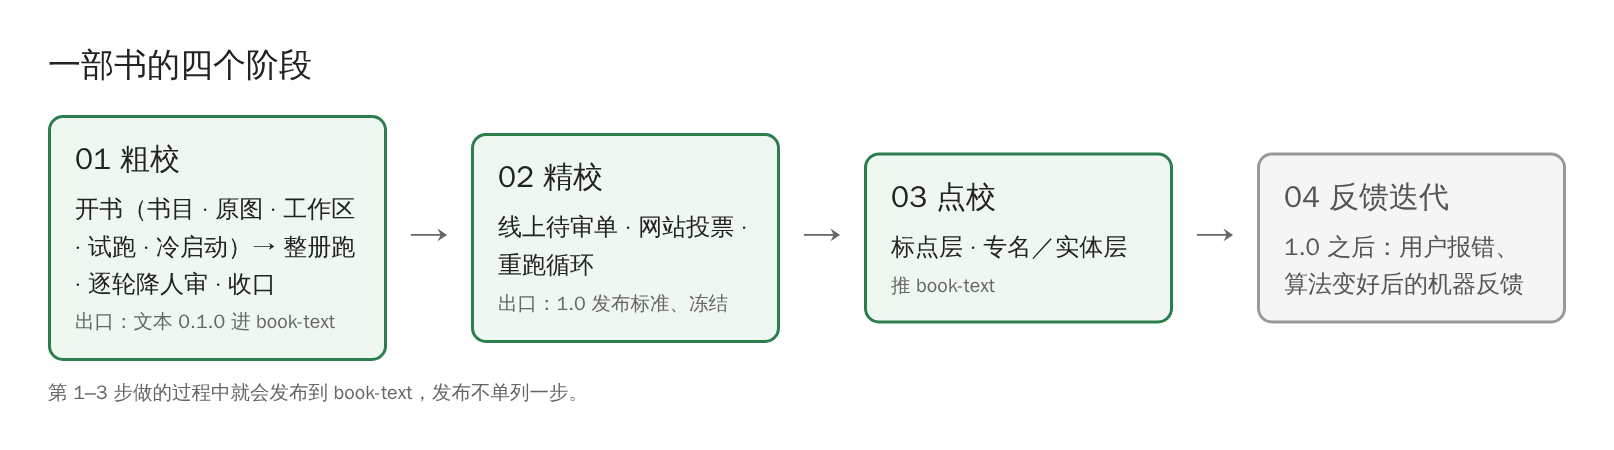
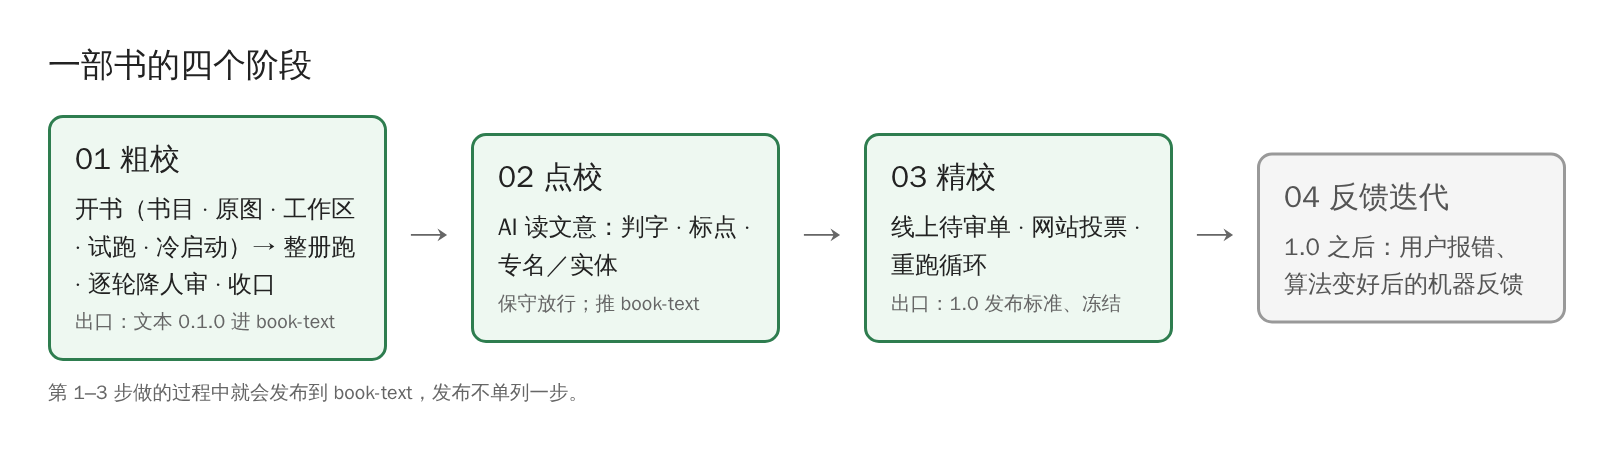
Wiki：阶段图改为粗校→点校→精校→反馈迭代 (#389)
Claude-Session: https://claude.ai/code/session_01RLbHovCiht8JTrceGAHJLA

diff --git a/wiki/images/src/diagrams.html b/wiki/images/src/diagrams.html
@@ -55,8 +55,8 @@ table.c td{padding:4px 8px;font-size:15px;white-space:nowrap}
 <div class="d" id="stages"><h3>一部书的四个阶段</h3>
 <div class="row">
  <div class="box mg" style="width:190px"><div class="big">01 粗校</div>开书（书目 · 原图 · 工作区 · 试跑 · 冷启动）→ 整册跑 · 逐轮降人审 · 收口<br><span class="small">出口：文本 0.1.0 进 book-text</span></div><div class="arr">→</div>
- <div class="box mg" style="width:170px"><div class="big">02 精校</div>线上待审单 · 网站投票 · 重跑循环<br><span class="small">出口：1.0 发布标准、冻结</span></div><div class="arr">→</div>
- <div class="box mg" style="width:170px"><div class="big">03 点校</div>标点层 · 专名／实体层<br><span class="small">推 book-text</span></div><div class="arr">→</div>
+ <div class="box mg" style="width:170px"><div class="big">02 点校</div>AI 读文意：判字 · 标点 · 专名／实体<br><span class="small">保守放行；推 book-text</span></div><div class="arr">→</div>
+ <div class="box mg" style="width:170px"><div class="big">03 精校</div>线上待审单 · 网站投票 · 重跑循环<br><span class="small">出口：1.0 发布标准、冻结</span></div><div class="arr">→</div>
  <div class="box gy" style="width:170px"><div class="big">04 反馈迭代</div>1.0 之后：用户报错、算法变好后的机器反馈</div>
 </div>
 <div class="small" style="margin-top:12px">第 1–3 步做的过程中就会发布到 book-text，发布不单列一步。</div></div>
